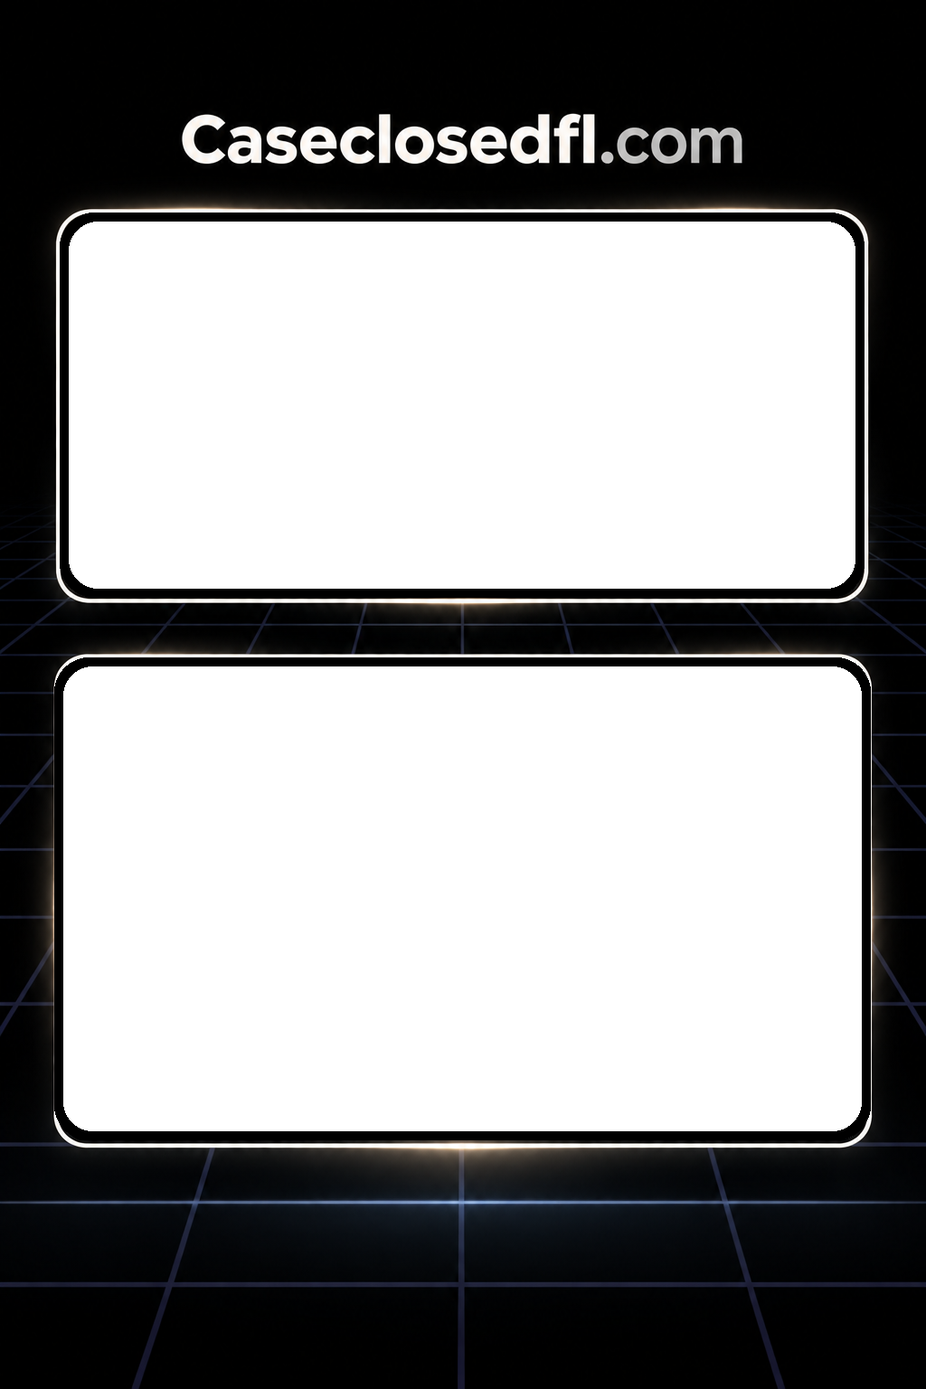
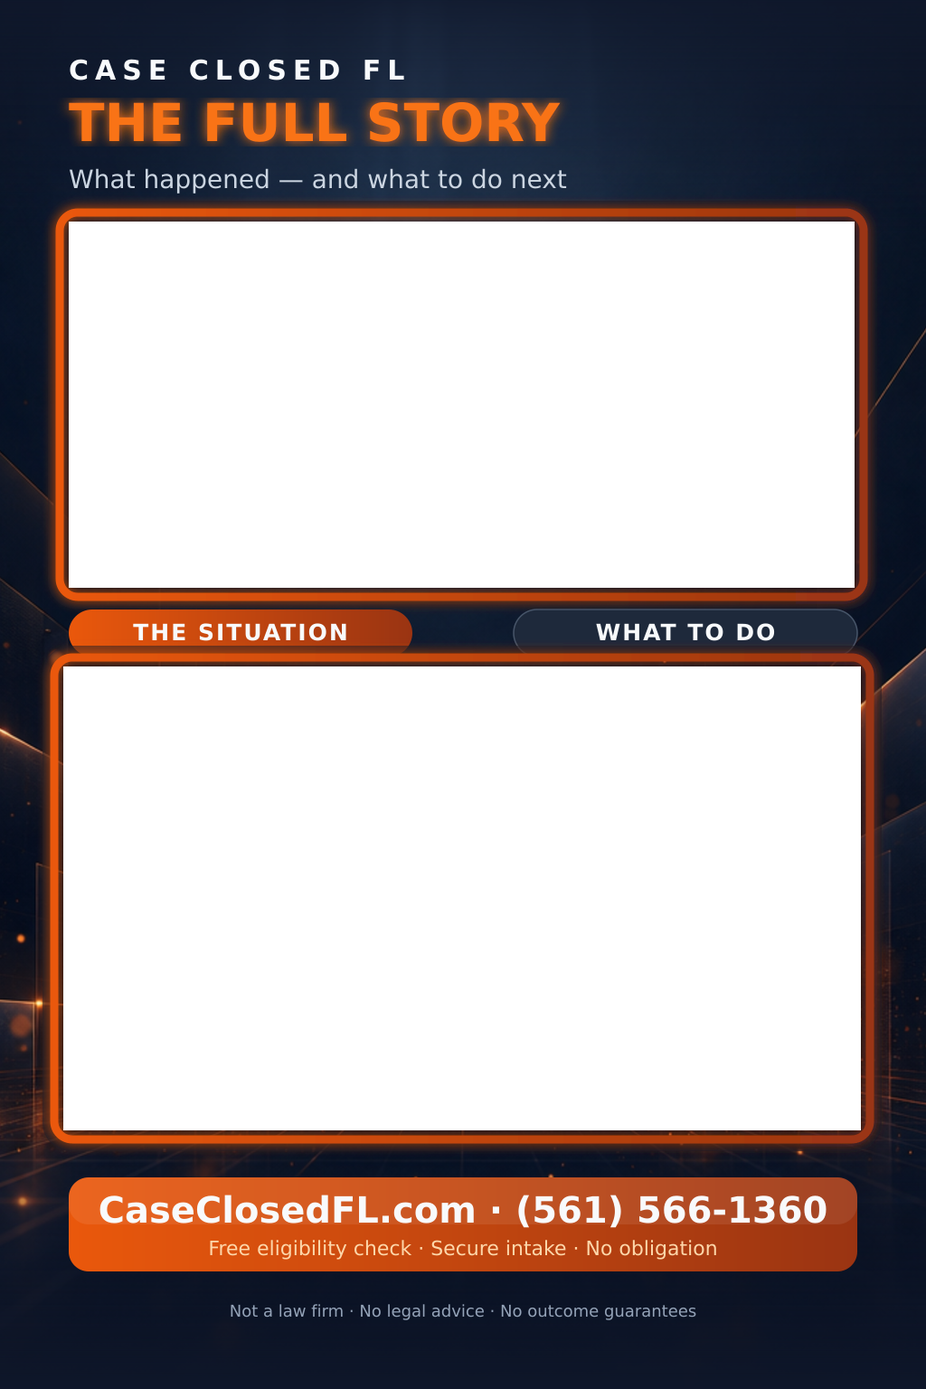
13 split templates: premium artwork, purposes, AI video prompt hints wired into planning

diff --git a/app/podcast-interview/page.tsx b/app/podcast-interview/page.tsx
@@ -117,7 +117,7 @@ export default function PodcastInterviewPage(){
   async function chooseUpperReference(file?:File){if(!file)return;if(!file.type.startsWith("image/")){setError("Choose a PNG, JPEG, or WebP reference image.");return}if(file.size>10*1024*1024){setError("Reference image must be 10MB or smaller.");return}setUpperReference(await fileToMedia(file));setUpperAvatar("");setUpperAvatarBase64(null);setError(null)}
   async function chooseAvatar(id:string,target:"upper"|"lower"="lower"){if(target==="upper"){setUpperAvatar(id);setUpperAvatarBase64(null)}else{setSelectedAvatar(id);setAvatarBase64(null)}if(!id)return;let avatar=avatars.find(a=>a.id===id);if(!avatar)return;try{if(avatar.a2eTwinStatus==="training"){const sync=await fetch(`/api/admin/avatars/${encodeURIComponent(id)}/a2e-twin`,{cache:"no-store"});if(sync.ok){const d=await sync.json();avatar={...avatar,a2eTwinId:d.twin?.id,a2eTwinAnchorId:d.twin?.anchorId,a2eTwinStatus:d.twin?.status,a2eTwinError:d.twin?.error};setAvatars(old=>old.map(a=>a.id===id?avatar!:a))}}let view="front";if(avatar.views?.front?.status!=="ready"){if(avatar.wardrobeRegenerationPrompt)throw new Error(`${avatar.name} has identity-only reference imagery and no campaign-safe canonical front view. Generate/upload a professional canonical front in Avatars before using this identity.`);if(!avatar.referenceImage)throw new Error(`${avatar.name} has no usable image.`);view="reference"}const r=await fetch(`/api/admin/avatars/${encodeURIComponent(id)}/asset?view=${view}`,{cache:"no-store"});if(!r.ok)throw new Error(`Could not load ${avatar.name} ${view} image`);const blob=await r.blob(),base64=await fileToBase64(new File([blob],`${id}-${view}.png`,{type:blob.type||"image/png"}));if(target==="upper"){setUpperAvatarBase64(base64);setUpperReference({base64,mime:blob.type||"image/png",name:`${avatar.name} ${view}`})}else setAvatarBase64(base64);setError(null)}catch(e){if(target==="upper"){setUpperAvatar("");setUpperAvatarBase64(null)}else{setSelectedAvatar("");setAvatarBase64(null)}setError(e instanceof Error?e.message:String(e))}}
   async function generateFreshAvatar(){setGeneratingAvatar(true);setError(null);try{const r=await fetch("/api/internal/host-image",{method:"POST",headers:{"content-type":"application/json"},body:JSON.stringify({prompt:freshAvatarPrompt,model:freshAvatarModel})}),d=await r.json();if(!r.ok)throw new Error(d.error||`HTTP ${r.status}`);setAvatarBase64(d.base64);setSelectedAvatar("")}catch(e){setError(e instanceof Error?e.message:String(e))}finally{setGeneratingAvatar(false)}}
-  async function planBoth(){setPlanning(true);setError(null);try{const avatarName=avatars.find(a=>a.id===selectedAvatar)?.name||null,upperAvatarName=avatars.find(a=>a.id===upperAvatar)?.name||null;const r=await fetch("/api/internal/split-plan",{method:"POST",headers:{"content-type":"application/json"},body:JSON.stringify({category,relationship,upperProvider,upperModel,lowerProvider,lowerModel,upperSeconds,lowerSeconds,upperAvatarName,lowerAvatarName:avatarName})}),d=await r.json();if(!r.ok)throw new Error(d.error||`HTTP ${r.status}`);setPlan(d.plan)}catch(e){setPlan(null);setError(e instanceof Error?e.message:String(e))}finally{setPlanning(false)}}
+  async function planBoth(){setPlanning(true);setError(null);try{const avatarName=avatars.find(a=>a.id===selectedAvatar)?.name||null,upperAvatarName=avatars.find(a=>a.id===upperAvatar)?.name||null;const r=await fetch("/api/internal/split-plan",{method:"POST",headers:{"content-type":"application/json"},body:JSON.stringify({category,relationship,upperProvider,upperModel,lowerProvider,lowerModel,upperSeconds,lowerSeconds,upperAvatarName,lowerAvatarName:avatarName,templateId:splitTemplate})}),d=await r.json();if(!r.ok)throw new Error(d.error||`HTTP ${r.status}`);setPlan(d.plan)}catch(e){setPlan(null);setError(e instanceof Error?e.message:String(e))}finally{setPlanning(false)}}
   async function startGeneration(payload:unknown){const r=await fetch("/api/internal/generate",{method:"POST",headers:{"content-type":"application/json"},body:JSON.stringify(payload)}),d=await r.json();if(!r.ok)throw new Error(d.error||`HTTP ${r.status}`);return d.job as Job}
   async function generateBoth(){if(!plan){setError("Plan both lanes with AI first.");return}if(topMode==="upload"&&!topUrl){setError("Upload the upper video or switch the upper lane to AI generate.");return}if(!avatarBase64){setError("Choose a campaign-safe canonical lower avatar or generate an intentional new host first.");return}if(lowerNeedsTwin&&selectedAvatarObj?.a2eTwinStatus!=="ready"){setError("The lower A2E Video Twin is not trained. Train this canonical avatar in Avatars first.");return}if(lowerNeedsAudio&&!audioBase64){setError(`${lowerA2e?.label||"Hedra"} needs driving audio.`);return}if(topMode==="ai"&&upperNeedsImage&&!upperReference){setError(`${upperA2e?.label||"The selected upper model"} needs an upper reference image or canonical avatar.`);return}if(topMode==="ai"&&upperNeedsTwin&&upperAvatarObj?.a2eTwinStatus!=="ready"){setError("The upper A2E Video Twin is not trained. Choose a ready canonical avatar or train it in Avatars.");return}if(topMode==="ai"&&upperNeedsAudio&&!upperAudio){setError("Upper A2E Video Twin needs driving audio.");return}setGenerating(true);setError(null);setComposition(null);setInstagramState("idle");setTopJob(topMode==="ai"?null:topJob);setLowerJob(null);try{if(topMode==="ai"){const top=await startGeneration({provider:upperProvider,model:upperModel,category,mission:`${plan.upper.mission}\nVisual direction: ${plan.upper.visualDirection}`,subject:plan.upper.subject,script:plan.upper.script,durationSeconds:upperSeconds,aspectRatio:"9:16",resolution:"1080p",avatarId:upperAvatar||undefined,imageBase64:upperReference?.base64,imageMimeType:upperReference?.mime,audioBase64:upperAudio?.base64,audioMimeType:upperAudio?.mime});setTopJob({...top,provider:upperProvider})}const lower=await startGeneration({provider:lowerProvider,model:lowerModel,category,mission:`${plan.lower.mission}\nVisual direction: ${plan.lower.visualDirection}`,subject:plan.lower.subject,script:plan.lower.script,durationSeconds:lowerSeconds,aspectRatio:"9:16",resolution:"1080p",avatarId:selectedAvatar||undefined,imageBase64:avatarBase64,imageMimeType:"image/png",audioBase64:lowerNeedsAudio?audioBase64||undefined:undefined,audioMimeType:lowerNeedsAudio?audioMimeType||undefined:undefined});setLowerJob({...lower,provider:lowerProvider})}catch(e){setError(e instanceof Error?e.message:String(e))}finally{setGenerating(false)}}
   async function renderFinal(){if(!topPreview||!lowerPreview)return;setRendering(true);setError(null);try{const blob=await renderSplitVideo({upperUrl:topPreview,lowerUrl:lowerPreview,durationSeconds:lowerSeconds,template:templateDef}),form=new FormData(),title=`Split-screen · ${SUBJECTS.find(s=>s.id===category)?.label||category}`;form.append("file",new File([blob],`split-screen-${Date.now()}.webm`,{type:blob.type||"video/webm"}));form.append("title",title);form.append("caption",plan?.caption||plan?.lower.mission||"Split-screen campaign");form.append("upperSource",topMode==="upload"?topFile?.name||"uploaded video":topJob?.id||"");form.append("lowerSource",lowerJob?.id||"");form.append("splitPercent",String(split));const r=await fetch("/api/internal/compositions",{method:"POST",body:form}),d=await r.json();if(!r.ok)throw new Error(d.error||`HTTP ${r.status}`);setComposition(d)}catch(e){setError(e instanceof Error?e.message:String(e))}finally{setRendering(false)}}
@@ -141,7 +141,7 @@ export default function PodcastInterviewPage(){
           <img src={templateDef.assetPath} alt="" className="pointer-events-none absolute inset-0 h-full w-full"/>
           <div className="pointer-events-none absolute left-0 right-0 top-[3%] flex h-[7.5%] items-center justify-center bg-black/70 px-2 text-center text-[clamp(9px,2.2vw,16px)] font-bold text-white">{CASE_CLOSED_URL} · {CASE_CLOSED_PHONE}</div>
         </div></div>
-        <div className="mx-auto mt-4 flex max-w-[470px] min-w-0 gap-2"><label className="min-w-0 flex-1 text-xs font-medium text-slate-600">Template<select aria-label="Split-screen template" value={splitTemplate} onChange={e=>{setSplitTemplate(e.target.value);setComposition(null)}} className="mt-2 h-10 w-full rounded-xl border px-3 text-sm">{templates.map(t=><option key={t.id} value={t.id}>{t.label}</option>)}</select></label><label className="mt-5 shrink-0 cursor-pointer rounded-xl border px-3 py-2 text-xs font-semibold">Upload template<input type="file" accept="image/png,image/jpeg" className="sr-only" onChange={e=>void uploadTemplate(e.target.files?.[0])}/></label></div>
+        <div className="mx-auto mt-4 max-w-[470px]"><div className="flex min-w-0 gap-2"><label className="min-w-0 flex-1 text-xs font-medium text-slate-600">Template<select aria-label="Split-screen template" value={splitTemplate} onChange={e=>{setSplitTemplate(e.target.value);setComposition(null)}} className="mt-2 h-10 w-full rounded-xl border px-3 text-sm">{templates.map(t=><option key={t.id} value={t.id}>{t.label}</option>)}</select></label><label className="mt-5 shrink-0 cursor-pointer rounded-xl border px-3 py-2 text-xs font-semibold">Upload template<input type="file" accept="image/png,image/jpeg" className="sr-only" onChange={e=>void uploadTemplate(e.target.files?.[0])}/></label></div>{templateDef?.purpose&&<p className="mt-1 text-[11px] leading-4 text-slate-500">{templateDef.purpose}</p>}</div>
         {canRender&&<div className="mx-auto mt-4 max-w-[470px]"><Button className="w-full" onClick={renderFinal} disabled={rendering}>{rendering?"Rendering final split-screen…":"Render final split-screen"}</Button></div>}
         {composition&&<div className="mx-auto mt-4 max-w-[470px] rounded-xl border border-emerald-200 bg-emerald-50 p-3"><div className="text-sm font-semibold text-emerald-800">Final split-screen saved to Library + Calendar</div><video src={composition.url} controls className="mt-3 w-full rounded-lg bg-black"/><div className="mt-3 flex min-w-0 flex-wrap gap-2"><a className="min-w-0" href={composition.url} download><Button size="sm" variant="secondary">Download</Button></a><Button size="sm" variant="secondary" onClick={postInstagram} disabled={instagramState!=="idle"}>{instagramState==="posted"?"Posted to Instagram":instagramState==="posting"?"Publishing…":"Post to Instagram now"}</Button><Link href="/library"><Button size="sm" variant="secondary">Library</Button></Link><Link href="/calendar"><Button size="sm">Calendar</Button></Link></div></div>}
       </section>

diff --git a/lib/split-templates.ts b/lib/split-templates.ts
@@ -13,14 +13,17 @@
 //    boxes over a static template background/artwork (no lane fills the
 //    whole canvas).
 
-export type SplitTemplateId = "office-modern" | "office-warm" | "digital-grid";
+export type SplitTemplateId = "office-modern" | "office-warm" | "digital-grid" | "rideshare-night" | "truck-highway" | "slipfall-store" | "motorcycle-sunset" | "evidence-phone" | "spanish-golden" | "deadline-hourglass" | "myths-chess" | "qa-studio" | "daynight-street";
 
 export type SplitBox = { x: number; y: number; w: number; h: number };
+export type VideoPromptHints = { background?: string; avatar?: string; upper?: string; lower?: string };
 
 export type AvatarBoxTemplateDef = {
   id: string;
   layout: "avatar-box";
   label: string;
+  purpose: string;
+  videoPromptHints: VideoPromptHints;
   assetPath: string;
   canvasW: number;
   canvasH: number;
@@ -31,6 +34,8 @@ export type DualBoxTemplateDef = {
   id: string;
   layout: "dual-box";
   label: string;
+  purpose: string;
+  videoPromptHints: VideoPromptHints;
   assetPath: string;
   canvasW: number;
   canvasH: number;
@@ -44,7 +49,12 @@ export const SPLIT_TEMPLATES: SplitTemplateDef[] = [
   {
     id: "office-modern",
     layout: "avatar-box",
-    label: "Modern office · blue glass",
+    label: "Crash CTA · dusk highway",
+    purpose: "Use for the main car-accident call-to-action reel.",
+    videoPromptHints: {
+      background: "Vertical Florida highway dusk scene, calm, with the upper third kept visually quiet.",
+      avatar: "Professional spokesperson with a calm, reassuring delivery."
+    },
     assetPath: "/backgrounds/split-template-office-modern.png",
     canvasW: 720,
     canvasH: 1280,
@@ -53,7 +63,12 @@ export const SPLIT_TEMPLATES: SplitTemplateDef[] = [
   {
     id: "office-warm",
     layout: "avatar-box",
-    label: "Warm office · bookshelf & skyline",
+    label: "Clients Say · bright office",
+    purpose: "Use for testimonial and social-proof reels with documented quotes.",
+    videoPromptHints: {
+      background: "Light, airy, bright office background with uncluttered framing.",
+      avatar: "Warm, friendly spokesperson."
+    },
     assetPath: "/backgrounds/split-template-office-warm.png",
     canvasW: 720,
     canvasH: 1280,
@@ -62,8 +77,125 @@ export const SPLIT_TEMPLATES: SplitTemplateDef[] = [
   {
     id: "digital-grid",
     layout: "dual-box",
-    label: "Digital grid · dual frame",
+    label: "The Full Story · dual frame",
+    purpose: "Use for two-angle storytelling that pairs the situation with guidance.",
+    videoPromptHints: {
+      upper: "Documentary scene of the incident context, with no faces.",
+      lower: "Spokesperson explaining the next steps."
+    },
     assetPath: "/backgrounds/split-template-digital-grid.png",
+    canvasW: 1024,
+    canvasH: 1536,
+    upperBox: { x: 76, y: 245, w: 869, h: 405 },
+    lowerBox: { x: 70, y: 737, w: 882, h: 513 }
+  },
+  {
+    id: "rideshare-night",
+    layout: "avatar-box",
+    label: "Rideshare · night city",
+    purpose: "Use for Uber, Lyft, and delivery accident reels.",
+    videoPromptHints: { background: "Rainy neon night city background.", avatar: "Keep the spokesperson centered in the avatar frame." },
+    assetPath: "/backgrounds/split-template-rideshare-night.png",
+    canvasW: 720,
+    canvasH: 1280,
+    avatarBox: { x: 200, y: 560, w: 320, h: 480 }
+  },
+  {
+    id: "truck-highway",
+    layout: "avatar-box",
+    label: "Truck crash · highway",
+    purpose: "Use for commercial-vehicle crash reels.",
+    videoPromptHints: { background: "Highway scene with a semi truck; keep the right side visually quiet for the avatar.", avatar: "Position the spokesperson on the right side." },
+    assetPath: "/backgrounds/split-template-truck-highway.png",
+    canvasW: 720,
+    canvasH: 1280,
+    avatarBox: { x: 360, y: 520, w: 320, h: 490 }
+  },
+  {
+    id: "slipfall-store",
+    layout: "avatar-box",
+    label: "Slip & fall · retail",
+    purpose: "Use for premises-liability reels.",
+    videoPromptHints: { background: "Bright retail store interior with a clean documentary feel.", avatar: "Position the spokesperson on the left." },
+    assetPath: "/backgrounds/split-template-slipfall-store.png",
+    canvasW: 720,
+    canvasH: 1280,
+    avatarBox: { x: 40, y: 540, w: 320, h: 480 }
+  },
+  {
+    id: "motorcycle-sunset",
+    layout: "avatar-box",
+    label: "Motorcycle · sunset",
+    purpose: "Use for motorcycle crash reels.",
+    videoPromptHints: { background: "Coastal road at sunset with a calm, cinematic atmosphere.", avatar: "Keep the spokesperson centered in the avatar frame." },
+    assetPath: "/backgrounds/split-template-motorcycle-sunset.png",
+    canvasW: 720,
+    canvasH: 1280,
+    avatarBox: { x: 200, y: 530, w: 320, h: 490 }
+  },
+  {
+    id: "evidence-phone",
+    layout: "avatar-box",
+    label: "Evidence checklist",
+    purpose: "Use for educational what-to-do-at-the-scene reels.",
+    videoPromptHints: { background: "Documentary phone and dashcam evidence mood, realistic and uncluttered.", avatar: "Keep the spokesperson centered in the avatar frame." },
+    assetPath: "/backgrounds/split-template-evidence-phone.png",
+    canvasW: 720,
+    canvasH: 1280,
+    avatarBox: { x: 200, y: 580, w: 320, h: 460 }
+  },
+  {
+    id: "spanish-golden",
+    layout: "avatar-box",
+    label: "Español · golden hour",
+    purpose: "Use for Spanish-language outreach reels with the script and captions in Spanish.",
+    videoPromptHints: { background: "Warm golden-hour boulevard.", avatar: "The spokesperson speaks Spanish with a natural, reassuring delivery." },
+    assetPath: "/backgrounds/split-template-spanish-golden.png",
+    canvasW: 720,
+    canvasH: 1280,
+    avatarBox: { x: 200, y: 550, w: 320, h: 480 }
+  },
+  {
+    id: "deadline-hourglass",
+    layout: "avatar-box",
+    label: "Urgency · evidence fades",
+    purpose: "Use for urgency reels about acting fast.",
+    videoPromptHints: { background: "Dramatic time and hourglass mood that conveys urgency without sensationalism.", avatar: "Keep the spokesperson centered and composed." },
+    assetPath: "/backgrounds/split-template-deadline-hourglass.png",
+    canvasW: 720,
+    canvasH: 1280,
+    avatarBox: { x: 200, y: 540, w: 320, h: 480 }
+  },
+  {
+    id: "myths-chess",
+    layout: "avatar-box",
+    label: "Myths · debunked",
+    purpose: "Use for myth-busting educational reels.",
+    videoPromptHints: { background: "Strategic chess mood with restrained, professional visuals.", avatar: "Keep the spokesperson centered in the avatar frame." },
+    assetPath: "/backgrounds/split-template-myths-chess.png",
+    canvasW: 720,
+    canvasH: 1280,
+    avatarBox: { x: 200, y: 560, w: 320, h: 470 }
+  },
+  {
+    id: "qa-studio",
+    layout: "dual-box",
+    label: "Q&A · studio",
+    purpose: "Use for a question-and-answer format where the upper lane shows the question or situation and the lower lane gives the answer.",
+    videoPromptHints: { upper: "Show the concise question or its situation in a clean studio-style scene.", lower: "Show the spokesperson directly answering the upper-lane question." },
+    assetPath: "/backgrounds/split-template-qa-studio.png",
+    canvasW: 1024,
+    canvasH: 1536,
+    upperBox: { x: 76, y: 250, w: 869, h: 400 },
+    lowerBox: { x: 76, y: 740, w: 869, h: 500 }
+  },
+  {
+    id: "daynight-street",
+    layout: "dual-box",
+    label: "Scene vs next day",
+    purpose: "Use for before-and-after storytelling where the upper lane shows the incident scene and the lower lane gives aftermath guidance.",
+    videoPromptHints: { upper: "Show the incident street scene as the before moment.", lower: "Show calm next-day aftermath guidance from a spokesperson." },
+    assetPath: "/backgrounds/split-template-daynight-street.png",
     canvasW: 1024,
     canvasH: 1536,
     upperBox: { x: 76, y: 245, w: 869, h: 405 },

diff --git a/lib/nvidia/split-screen-planner.ts b/lib/nvidia/split-screen-planner.ts
@@ -1,5 +1,6 @@
 import { chatCompletion, getNvidiaModel, isNvidiaEnabled } from "@/lib/nvidia/client";
 import { publicCaptionForSlot } from "@/lib/public-copy";
+import type { VideoPromptHints } from "@/lib/split-templates";
 
 const SUBJECTS:Record<string,string>={
   car_accident:"car-accident / collision awareness and practical next steps",
@@ -73,6 +74,8 @@ export async function planSplitScreen(input:{
   mission?:string;
   title?:string;
   upperIsStock?:boolean;
+  templatePurpose?:string;
+  videoPromptHints?:VideoPromptHints;
 }):Promise<SplitPlan>{
   if(!isNvidiaEnabled())return fallbackSplitPlan(input);
   const subject=SUBJECTS[input.category]||SUBJECTS.ugc;
@@ -82,7 +85,7 @@ export async function planSplitScreen(input:{
   try{
     const response=await chatCompletion({model:getNvidiaModel(),temperature:.55,maxTokens:1800,jsonMode:true,messages:[
       {role:"system",content:"You plan two-lane vertical split-screen Instagram Reels for a Florida personal-injury law firm (CaseClosedFL.com). Return JSON only. Never invent settlements, testimonials, legal outcomes, diagnoses, statistics, or client facts. hook and caption are PUBLIC Instagram marketing copy a stranger reads under the Reel. hook must be a short, attention-grabbing opener in the style of 'This one thing changes everything', 'People still don't know this', 'The mistake most people make', or 'One decision, a different outcome' — never a bland instruction like 'Know what to do next'. caption is 2-4 useful lines, must explicitly mention CaseClosedFL.com connecting the reader to the best attorneys in Florida, the disclaimer 'General information only—not legal advice.', and 3-8 hashtags. NEVER put internal/operator language in caption or hook (no mission, wardrobe, newsroom credibility, 8-second, ONE CONTINUOUS SHOT, calendar variation, AI, generate, campaign brief). lower.script (the on-camera spokesperson's spoken line) must end by naming CaseClosedFL.com and saying it connects viewers with the best attorneys in Florida — spoken naturally, not read like an ad. The upper and lower lanes may show completely different people/places unless the selected relationship requires dialogue. Keep each generated lane simple enough for one continuous 8-second AI video."},
-      {role:"user",content:`Campaign subject: ${subject}\nRelationship preset: ${relationship}\nCampaign mission (INTERNAL ONLY — do not copy into caption): ${s(input.mission,1200)||"none"}\nCalendar item: ${s(input.title,180)||"none"}\nUpper engine: ${input.upperIsStock?"operator-supplied stock footage (do not write an AI generation brief that replaces it)":input.upperProvider}; upper duration: ${Math.max(8,Math.min(30,input.upperSeconds))}s.\nLower engine: ${input.lowerProvider}; lower duration: ${Math.max(8,Math.min(30,input.lowerSeconds))}s.\nLower canonical spokesperson: ${input.lowerAvatarName||"none selected"}.\n\nReturn {"hook":"","caption":"","relationshipSummary":"","upper":{"mission":"","subject":"","script":"","visualDirection":""},"lower":{"mission":"","subject":"","script":"","visualDirection":""}}. Caption must be Instagram-ready marketing copy that names CaseClosedFL.com and the best attorneys in Florida. If relationship is anchor_field or question_answer and upper is not stock, upper.script must be a concise question and lower.script must directly answer it, then name CaseClosedFL.com. If lower engine is Hedra, lower.script must be naturally speakable within its duration. If a canonical spokesperson is named, lower.subject must preserve that identity.`}
+      {role:"user",content:`Campaign subject: ${subject}\nRelationship preset: ${relationship}\nCampaign mission (INTERNAL ONLY — do not copy into caption): ${s(input.mission,1200)||"none"}\nCalendar item: ${s(input.title,180)||"none"}\nSelected template purpose: ${s(input.templatePurpose,500)||"general split-screen reel"}\nTemplate video guidance: ${s(JSON.stringify(input.videoPromptHints||{}),1200)||"none"}\nUpper engine: ${input.upperIsStock?"operator-supplied stock footage (do not write an AI generation brief that replaces it)":input.upperProvider}; upper duration: ${Math.max(8,Math.min(30,input.upperSeconds))}s.\nLower engine: ${input.lowerProvider}; lower duration: ${Math.max(8,Math.min(30,input.lowerSeconds))}s.\nLower canonical spokesperson: ${input.lowerAvatarName||"none selected"}.\n\nTreat the selected template purpose and video guidance as requirements for the missions, scripts, subjects, and visual directions. Language instructions in the template apply to the hook, caption, and spoken scripts too.\n\nReturn {"hook":"","caption":"","relationshipSummary":"","upper":{"mission":"","subject":"","script":"","visualDirection":""},"lower":{"mission":"","subject":"","script":"","visualDirection":""}}. Caption must be Instagram-ready marketing copy that names CaseClosedFL.com and the best attorneys in Florida. If relationship is anchor_field or question_answer and upper is not stock, upper.script must be a concise question and lower.script must directly answer it, then name CaseClosedFL.com. If lower engine is Hedra, lower.script must be naturally speakable within its duration. If a canonical spokesperson is named, lower.subject must preserve that identity.`}
     ]});
     let p:any;try{p=JSON.parse(response.text.trim().replace(/^```(?:json)?\s*/i,"").replace(/```\s*$/, ""));}catch{return fallbackSplitPlan(input);}
     const plan:SplitPlan={hook:s(p.hook,300),caption:s(p.caption,2200),relationshipSummary:s(p.relationshipSummary,1200),upper:{mission:s(p.upper?.mission,2500),subject:s(p.upper?.subject,2500),script:s(p.upper?.script,2200),visualDirection:s(p.upper?.visualDirection,2800)},lower:{mission:s(p.lower?.mission,2500),subject:s(p.lower?.subject,2500),script:s(p.lower?.script,2200),visualDirection:s(p.lower?.visualDirection,2800)}};

diff --git a/app/api/internal/split-plan/route.ts b/app/api/internal/split-plan/route.ts
@@ -1,10 +1,11 @@
 import { NextResponse } from "next/server";
 import { requireAdmin } from "@/lib/auth";
+import { resolveSplitTemplate } from "@/lib/custom-split-templates";
 import { planSplitScreen } from "@/lib/nvidia/split-screen-planner";
 
 export async function POST(req:Request){
   if(!(await requireAdmin()))return NextResponse.json({error:"Unauthorized"},{status:401});
   const body=await req.json().catch(()=>({}));
-  try{return NextResponse.json({plan:await planSplitScreen({category:String(body.category||"ugc"),relationship:String(body.relationship||"context_commentary"),upperProvider:String(body.upperProvider||"veo"),lowerProvider:String(body.lowerProvider||"hedra"),upperSeconds:Number(body.upperSeconds||8),lowerSeconds:Number(body.lowerSeconds||30),lowerAvatarName:body.lowerAvatarName?String(body.lowerAvatarName):null})});}
+  try{const template=resolveSplitTemplate(body.templateId?String(body.templateId):null);return NextResponse.json({plan:await planSplitScreen({category:String(body.category||"ugc"),relationship:String(body.relationship||"context_commentary"),upperProvider:String(body.upperProvider||"veo"),lowerProvider:String(body.lowerProvider||"hedra"),upperSeconds:Number(body.upperSeconds||8),lowerSeconds:Number(body.lowerSeconds||30),lowerAvatarName:body.lowerAvatarName?String(body.lowerAvatarName):null,templatePurpose:template.purpose,videoPromptHints:template.videoPromptHints})});}
   catch(e){return NextResponse.json({error:e instanceof Error?e.message:String(e)},{status:400});}
 }
